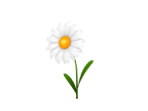
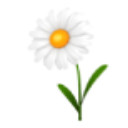
fix assets to scale properly

diff --git a/js/items.js b/js/items.js
@@ -8,67 +8,67 @@ let items = {
     
     "catHair" : {
         name : "Hair of Cat",
-        image : "error.png",
+        image : "cathair.png",
         count : 0,
     },
     
     "crowFeather" : {
         name : "Feather of Crow",
-        image : "error.png",
+        image : "crowfeather.png",
         count : 5
     },
     
     "daisyPetal" : {
         name : "Petals of Daisy",
-        image : "error.png",
+        image : "daisy.png",
         count : 5,
     },
     
     "eagleTalons" : {
         name : "Talons of Eagle",
-        image : "error.png",
+        image : "eagletalons.png",
         count : 5,
     },
     
     "newtEye" : {
         name : "Eye of Newt",
-        image : "error.png",
+        image : "eyeofnewt.png",
         count : 0,
     },
     
     "mushroom" : {
         name : "Mushrooms",
-        image : "error.png",
+        image : "mushroom.png",
         count : 0,
     },
     
-    "nightlock" : {
-        name : "Berries of Nightlock",
-        image : "error.png",
+    "blueberries" : {
+        name : "Blueberries",
+        image : "nightlock.png",
         count : 0,
     },
     
     "pinecone" : {
         name : "Pinecone",
-        image : "error.png",
+        image : "pinecone.png",
         count : 0,
     },
     
     "phoenixTear" : {
         name : "Tear of Phoenix",
-        image : "error.png",
+        image : "phoenixtear.png",
         count : 0,
     },
     
     "tarDash" : {
         name : "Dash of Tar",
-        image : "error.png",
+        image : "tardrop.png",
         count : 0,
     },
     
     "adderTongue" : {
         name : "Tongue of Adder",
-        image : "error.png",
+        image : "tongueofadder.png",
         count : 0,
     },
 
